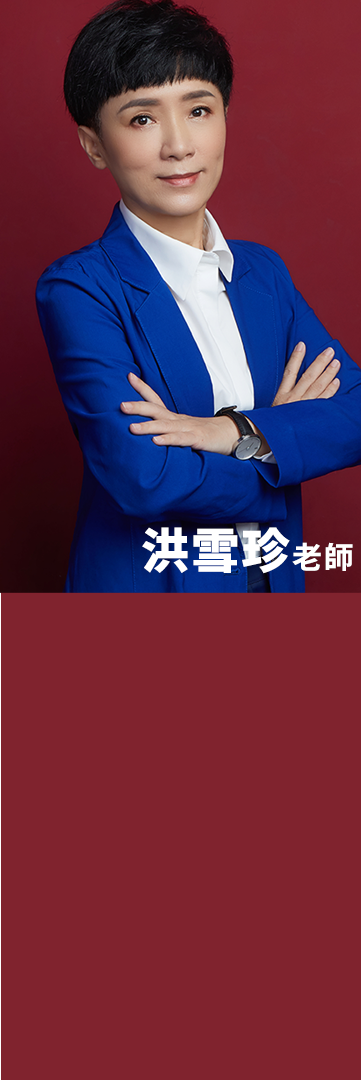
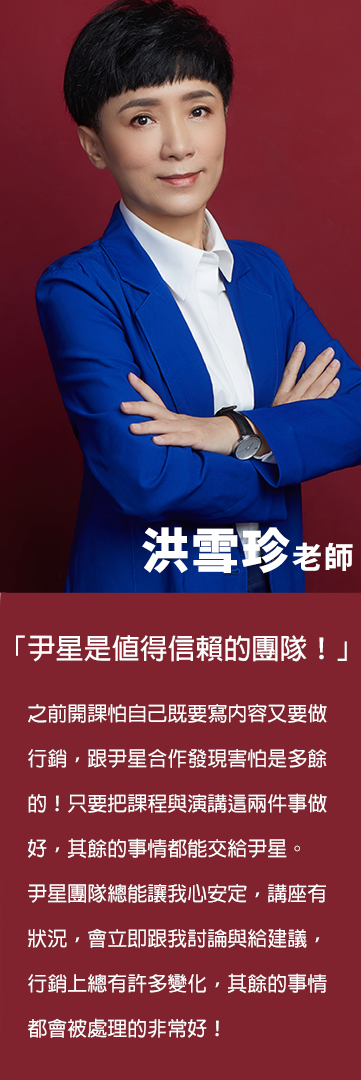
Change Teacher Pic

diff --git a/index.html b/index.html
@@ -162,37 +162,21 @@
             <div class="aside hidden lg:block"><img src="./images/teacher_say.png" alt=""></div>
 
             <div class="teacher-1">
-                <!-- <img src="./images/teacher001.png"> -->
-                <div class="teacher-pic"></div>
+                <img src="./images/teacher001.png">
                 <div class="teacher-content bg-light-blue-600 opacity-25">
                     <button
                         class="bg-transparent text-white text-3xl mt-56  hover:bg-white-500  font-semibold hover:text-white w-48 h-16 py-2 px-4 border-2 border-white-500">
                         <a href="https://enstar.com.tw/video/show.aspx?num=31" target="_blank">查看課程 </a>
                     </button>
                 </div>
-                <div class="teacher-say">
-                    <p>如果要用一句話形容尹星我會說：「尹星既性感又溫暖。」
-                        在開課上尹星對我們最大的幫助是：加速招生的速度，幫助我們提升在市場的廣度、深度與學員人數，尹星讓我們瞬間在市場上打開知名度。<br>
-                        只要你夠強，來尹星會有一種回到家的感覺，你可以心無旁鶩沒有後顧之憂的專注在課程上與內容上，不用去想廣告、摳客，那些雜事雜務尹星都會幫我們處理好！<br>
-                        尹星很善待講師，是非常能信賴的團隊，不管是老闆或是高階主管對我們的態度都會讓我們覺得是鄰家男孩女孩的感覺。</p>
-                </div>
             </div>
             <div class="teacher-1">
                 <img src="./images/teacher002.png">
-                <!-- <div class="teacher-pic2"></div> -->
                 <div class="teacher-content bg-light-blue-600 opacity-25">
                     <button
                         class="bg-transparent text-white text-3xl mt-56  hover:bg-white-500  font-semibold hover:text-white w-48 h-16 py-2 px-4 border-2 border-white-500">
                         <a href="https://enstar.com.tw/video/show.aspx?num=27" target="_blank">查看課程 </a>
                     </button>
-                </div>
-                <div class="teacher-say2">
-                    <p>如果要用一句話推薦尹星我會說：「尹星是值得信賴的團隊！」之前對開課，怕自己既要寫內容又要做行銷，跟尹星合作後，發現害怕是多餘的！<br>
-                    只要專注把課程與演講這兩件事做好，其餘的事情都能交給尹星。<br>
-                    身為講師平常時間跟精力不多，而尹星團隊，總能讓我心安定，講座有狀況，會立即跟我討論與給建議，不斷改善。<br>
-                    行銷團隊會不斷出招，行銷上總有許多變化，不用擔心沒有人來聽我的課程！<br>
-                    業務團隊貼心到位，能讓我用最佳狀態聚焦在演講中，其餘的事情都會被處理的非常好！
-</p>
                 </div>
             </div>
             <!-- <div class="teacher-1">
@@ -206,36 +190,20 @@
                 </div>
             </div> -->
             <div class="teacher-1">
-                <!-- <img src="./images/teacher002.png"> -->
-                <div class="teacher-pic3"></div>
+                <img src="./images/teacher003.png">
+                <!-- <div class="teacher-pic3"></div> -->
                 <div class="teacher-content bg-light-blue-600 opacity-25">
                     <button
                         class="bg-transparent text-white text-3xl mt-56  hover:bg-white-500  font-semibold hover:text-white w-48 h-16 py-2 px-4 border-2 border-white-500">
                         <a href="https://enstar.com.tw/video/show.aspx?num=25" target="_blank">查看課程 </a>
                     </button>
                 </div>
-                <div class="teacher-say">
+                <!-- <div class="teacher-say">
                     <p>尹星對我最大的幫助是在行銷自己/課程上的路徑上很清晰，依循專業指示就可以把課程做好、賣好，我只要專注在自己的領域上輸出專業知識即可！<br>
                         尹星分工很細，各司其職，每個分工都合作無間，在行銷上很精準，業務的助教團隊也幫忙處理很多維繫學員、客服等很瑣碎的事情。<br>
                         要用一句話推薦尹星我會說：「你在尹星學院，就能夠學習到各方面領域的專業」</p>
-                </div>
+                </div> -->
             </div>
-            <!-- <div class="teacher-1">
-                <img src="./images/teacher004.png">
-                
-                <div class="teacher-content bg-light-blue-600 opacity-25">
-
-                    <button
-                        class="bg-transparent text-white text-3xl mt-56  hover:bg-white-500  font-semibold hover:text-white w-48 h-16 py-2 px-4 border-2 border-white-500">
-                        <a href="https://enstar.com.tw/video/show.aspx?num=25" target="_blank">查看課程 </a>
-                    </button>
-                </div>
-                <div class="teacher-say3">
-                    <p>尹星對我最大的幫助是在行銷自己/課程上的路徑上很清晰，依循專業指示就可以把課程做好、賣好，我只要專注在自己的領域上輸出專業知識即可！<br>
-                    尹星分工很細，各司其職，每個分工都合作無間，在行銷上很精準，業務的助教團隊也幫忙處理很多維繫學員、客服等很瑣碎的事情。<br>
-                    要用一句話推薦尹星我會說：「你在尹星學院，就能夠學習到各方面領域的專業」</p>
-                </div>
-            </div> -->
             
             <div class="swiper-container lg:hidden">
                 <div class="swiper-wrapper">
@@ -248,14 +216,6 @@
                                     <a href="https://enstar.com.tw/" target="_blank">查看課程 </a>
                                 </button>
                                 
-                            </div>
-                            <div class="teacher-say">
-                                <p>如果要用一句話形容尹星我會說：「尹星既性感又溫暖。」
-                                    在開課上尹星對我們最大的幫助是：加速招生的速度，幫助我們提升在市場的廣度、深度與學員人數，尹星讓我們瞬間在市場上打開知名度。
-
-                                    只要你夠強，來尹星會有一種回到家的感覺，你可以心無旁鶩沒有後顧之憂的專注在課程上與內容上，不用去想廣告、摳客，那些雜事雜務尹星都會幫我們處理好！
-
-                                    尹星很善待講師，是非常能信賴的團隊，不管是老闆或是高階主管對我們的態度都會讓我們覺得是鄰家男孩女孩的感覺。</p>
                             </div>
                             
                         <!-- </div> -->
@@ -270,30 +230,17 @@
                                     <a href="https://enstar.com.tw/" target="_blank">查看課程 </a>
                                 </button>
                             </div>
-                            <div class="teacher-say2">
-                                <p>如果要用一句話推薦尹星我會說：「尹星是值得信賴的團隊！」之前對開課，怕自己既要寫內容又要做行銷，跟尹星合作後，發現害怕是多餘的！<br>
-                                    只要專注把課程與演講這兩件事做好，其餘的事情都能交給尹星。<br>
-                                    身為講師平常時間跟精力不多，而尹星團隊，總能讓我心安定，講座有狀況，會立即跟我討論與給建議，不斷改善。<br>
-                                    行銷團隊會不斷出招，行銷上總有許多變化，不用擔心沒有人來聽我的課程！<br>
-                                    業務團隊貼心到位，能讓我用最佳狀態聚焦在演講中，其餘的事情都會被處理的非常好！
-                                </p>
-                            </div>
                         </div>
                     </div>
                     <div class="swiper-slide">
                         <div class="teacher-2">
-                            <img src="./images/teacher004.png">
+                            <img src="./images/teacher003.png">
                             <div class="teacher-content bg-light-blue-600 opacity-25">
                         
                                 <button
                                     class="bg-transparent text-white text-3xl mt-56  hover:bg-white-500  font-semibold hover:text-white w-48 h-16 py-2 px-4 border-2 border-white-500">
                                     <a href="https://enstar.com.tw/" target="_blank">查看課程 </a>
                                 </button>
-                            </div>
-                            <div class="teacher-say3">
-                                <p>尹星對我最大的幫助是在行銷自己/課程上的路徑上很清晰，依循專業指示就可以把課程做好、賣好，我只要專注在自己的領域上輸出專業知識即可！<br>
-                                    尹星分工很細，各司其職，每個分工都合作無間，在行銷上很精準，業務的助教團隊也幫忙處理很多維繫學員、客服等很瑣碎的事情。<br>
-                                    要用一句話推薦尹星我會說：「你在尹星學院，就能夠學習到各方面領域的專業」</p>
                             </div>
                         </div>
                     </div>

diff --git a/css/style.css b/css/style.css
@@ -421,7 +421,7 @@ a:hover {
   margin-top: 70px;
 }
 .teacher .teacher-1 img {
-  /* height: 100%; */
+  height: 100%;
   width: 100%;
   object-fit: cover;
 }
